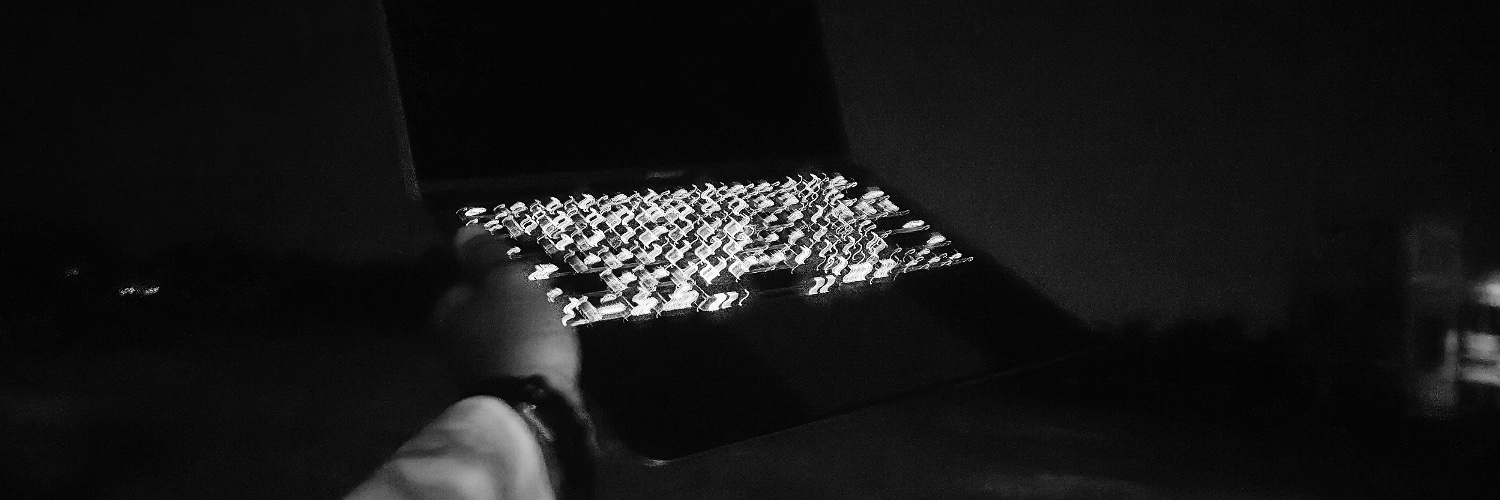
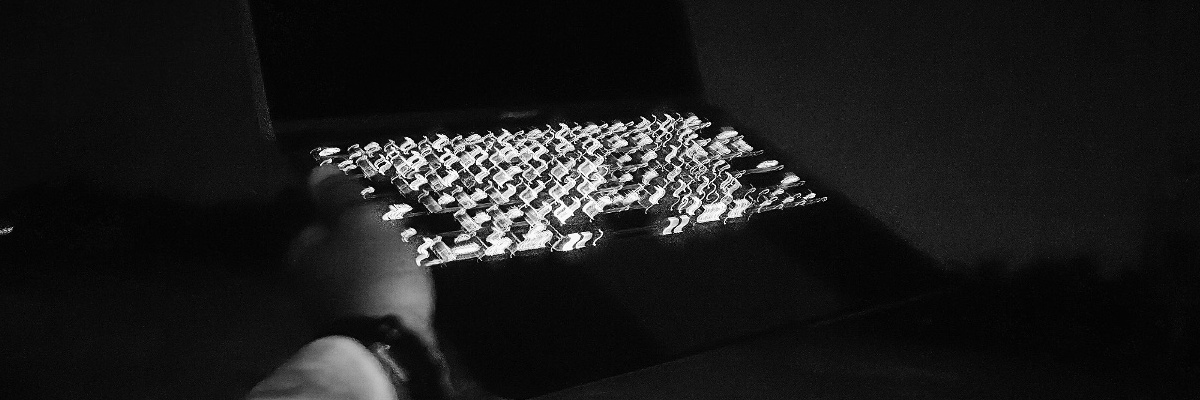
docs: optimize image sizes and fix README layout issues

diff --git a/README.md b/README.md
@@ -7,7 +7,7 @@
 [![Website](https://img.shields.io/badge/www.xodivorce.in-blue)](https://www.xodivorce.in)
 [![GitHub](https://img.shields.io/github/followers/xodivorce)](https://github.com/xodivorce)
 
-## About
+## About Me
 
 Hello, There! 👋
 
